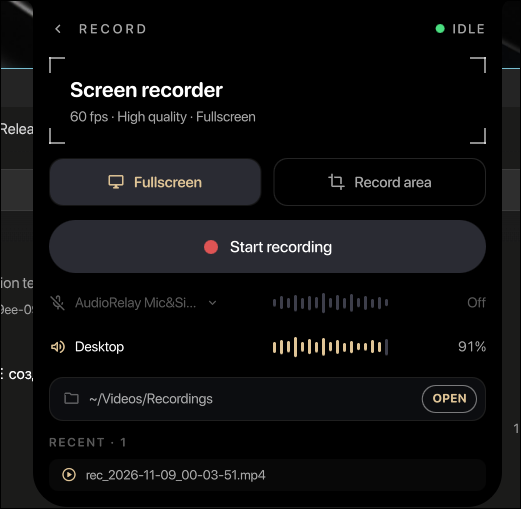
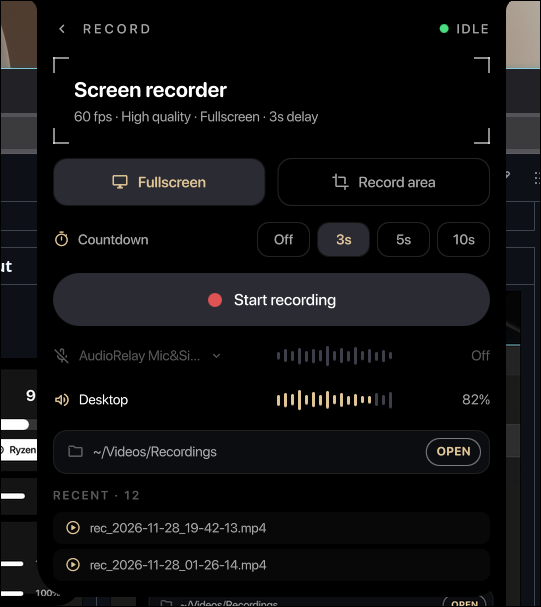
docs: update wallpaper & recorder screenshots and add media/timer ILA previews

diff --git a/README.md b/README.md
@@ -63,6 +63,10 @@ Dynamic Notch and comprehensive Control Center for Wayland (**Hyprland**), built
 | :---: | :---: |
 | <img src="assets/screenshots/22-instant-osd-dnd-on.png" width="400" alt="Do Not Disturb OSD" /><br><sub>**DND Enabled**: Instant full-notch feedback when toggling Do Not Disturb</sub> | <img src="assets/screenshots/23-instant-osd-dnd-off.png" width="400" alt="Notifications On OSD" /><br><sub>**Notifications On**: Matching full-notch feedback when DND is disabled</sub> |
 
+| Track Change ILA | Timer Finished ILA |
+| :---: | :---: |
+| <img src="assets/screenshots/27-instant-osd-media.png" width="400" alt="Track Change Instant Live Activity" /><br><sub>**Track Change ILA**: Album art, track title, artist and 4-band `cava` wave on track change</sub> | <img src="assets/screenshots/28-instant-osd-timer.png" width="400" alt="Timer Finished Instant Live Activity" /><br><sub>**Timer Finished ILA**: Interactive `Time's Up!` banner with `+1m` and `Repeat` quick actions</sub> |
+
 ### Interactive Panels
 
 | Launcher & App Search | Integrated Scientific Calculator |
